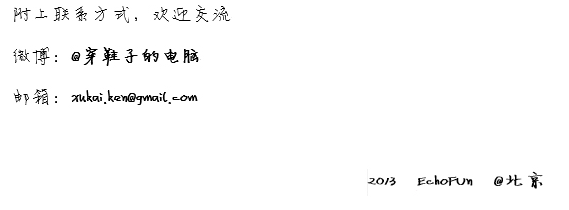
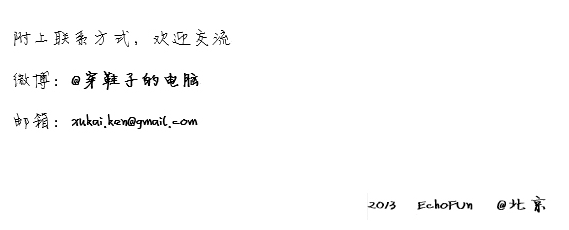
Add

diff --git a/public/dist/v17/css/home.css b/public/dist/v17/css/home.css
@@ -43,7 +43,7 @@ h2 a:hover{color:#ff6000}
 #body .article-list{margin-top:6px}
 #body .main .introduction-1{background:url(/images/about/part-0.png) no-repeat scroll 0 0 transparent;height:538px;width:569px}
 #body .main .introduction-2{background:url(/images/about/part-1.png) no-repeat scroll 0 0 transparent;height:296px;width:569px;margin-top:0}
-#body .main .introduction-3{background:url(/images/about/part-2.png) no-repeat scroll 0 0 transparent;height:210px;width:569px;margin-top:0}
+#body .main .introduction-3{background:url(/images/about/part-2.png) no-repeat scroll 0 0 transparent;height:230px;width:569px;margin-top:10px}
 #body .main .post{border-bottom:1px solid #E6E6E6;clear:both;margin-bottom:30px;overflow:hidden}
 p.post-meta{color:#AAA;margin-top:5px}
 p.post-meta span{background:url(/images/icons.png) no-repeat scroll 0 0 transparent;line-height:20px;padding:2px 0 2px 20px}

diff --git a/public/css/general.css b/public/css/general.css
@@ -147,9 +147,9 @@ h2 a:hover {
 
 #body .main .introduction-3 {
 	background: url('/images/about/part-2.png') no-repeat scroll 0 0 transparent;
-	height: 210px;
+	height: 230px;
 	width: 569px;
-	margin-top: 0;
+	margin-top: 10px;
 }
 
 #body .main .post {
